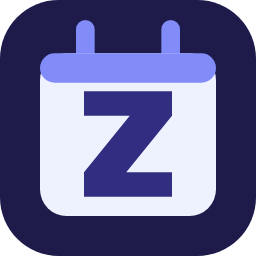
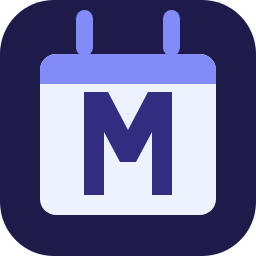
Rename the app to Majstorica
Zakazi.rs and every close variant (Zakazi Me, Terminko, Salonko) are
already taken by live competitors in the same Serbian booking-app space,
so the product needed a name that doesn't collide. Majstorica speaks
directly to the solo craftswoman this product is built for.

The app icon keeps the same calendar-card mark, only the letter changes
from Z to M — same palette, same construction (a filled path, not text,
so it stays sharp at any density), same maskable safe-zone margin.

Claude-Session: https://claude.ai/code/session_015R2qnjtR9sKoA6XZzpX7vq

diff --git a/lib/domain/ics.ts b/lib/domain/ics.ts
@@ -74,7 +74,7 @@ export function buildCalendarEvent(event: CalendarEvent): string {
   const lines = [
     "BEGIN:VCALENDAR",
     "VERSION:2.0",
-    "PRODID:-//Zakazi.rs//sr",
+    "PRODID:-//Majstorica//sr",
     "CALSCALE:GREGORIAN",
     "METHOD:PUBLISH",
     "BEGIN:VEVENT",

diff --git a/lib/i18n/sr.ts b/lib/i18n/sr.ts
@@ -1,6 +1,6 @@
 export const sr = {
   app: {
-    name: "Zakazi.rs",
+    name: "Majstorica",
     description: "Zakazivanje termina za beauty profesionalce",
   },
   signIn: {

diff --git a/docs/faza-2.md b/docs/faza-2.md
@@ -319,7 +319,7 @@ značilo migraciju puta broj salona pri svakoj izmeni.
 Šta Faza 2 radi za ekspanziju, i to je namerno malo:
 
 1. Tenant se nikad ne hardkoduje — razrešava se iz slug-a, na jednom mestu. Kad
-   kasnije dođe `milica.zakazi.rs`, menja se ta jedna funkcija.
+   kasnije dođe `milica.majstorica.rs`, menja se ta jedna funkcija.
 2. Javna stranica ide preko `[tenantSlug]` od prvog dana, iako imamo jedan salon.
 
 Boja, logo, pozivnice za nove vlasnike, custom domeni i super-admin ne ulaze

diff --git a/README.md b/README.md
@@ -1,4 +1,4 @@
-# Zakazi.rs
+# Majstorica
 
 Sistem za zakazivanje termina za solo beauty profesionalce u Srbiji.
 Specifikacija proizvoda i pravila razvoja su u [`CLAUDE.md`](./CLAUDE.md).

diff --git a/CLAUDE.md b/CLAUDE.md
@@ -1,4 +1,4 @@
-# Zakazi.rs — sistem za zakazivanje termina
+# Majstorica — sistem za zakazivanje termina
 
 ## Šta gradimo
 
